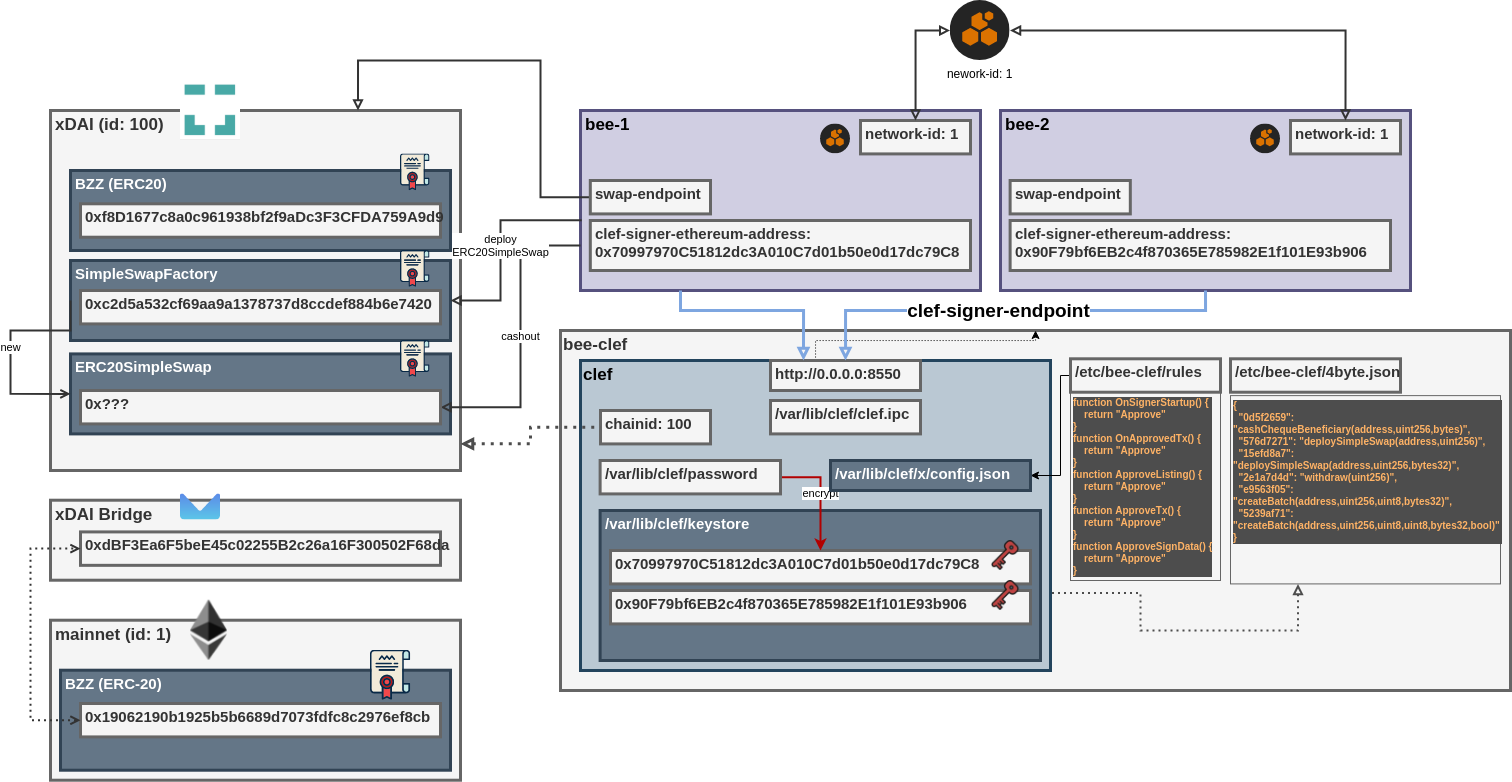
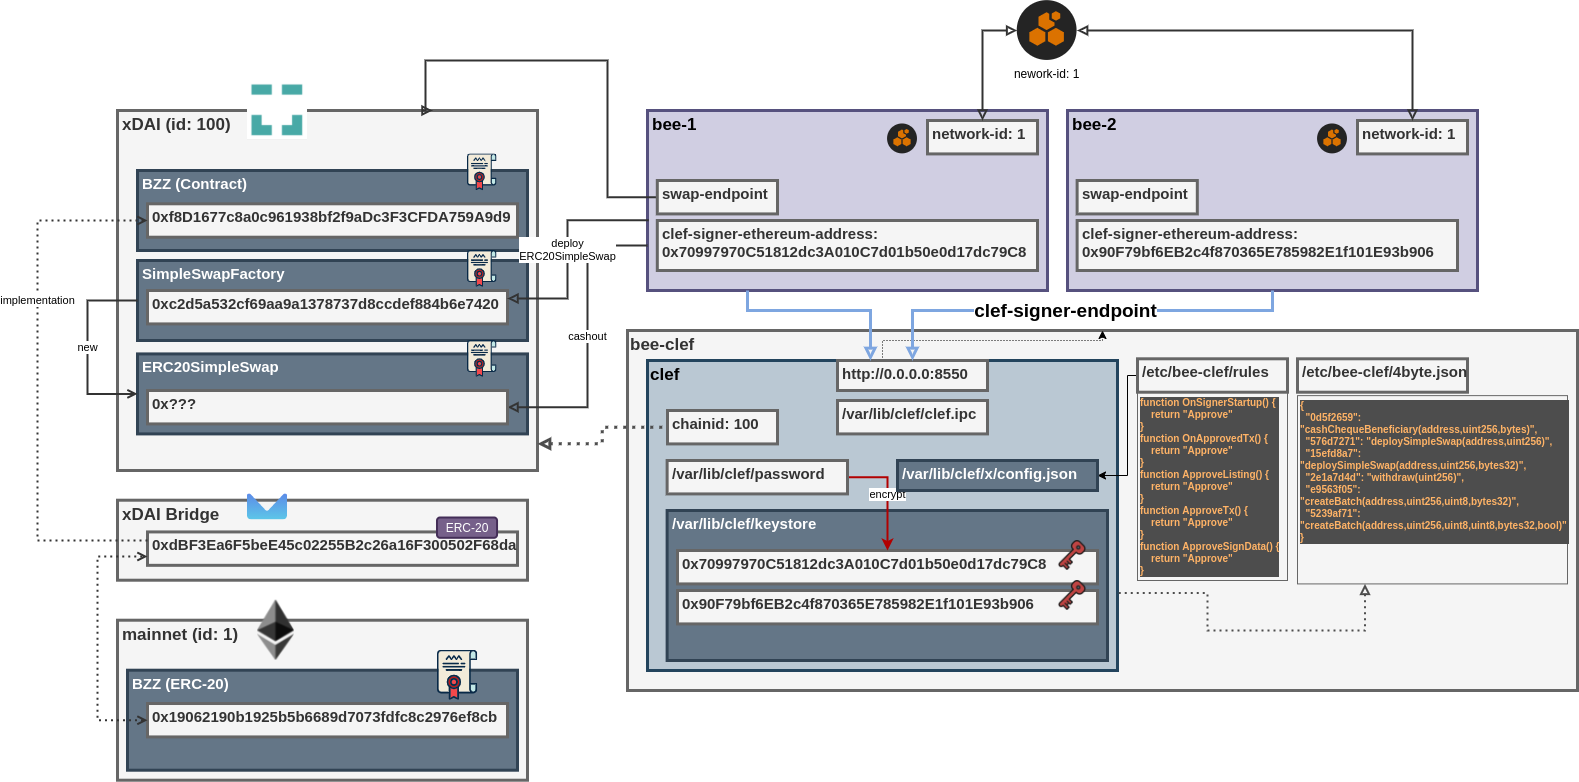
Tiny changes

diff --git a/README.md b/README.md
@@ -3,6 +3,8 @@
 
 <img src="doc/Bee-Architecture-clef.png" width="850">
 
+xDAI BZZ (Bridged): [0xdBF3Ea6F5beE45c02255B2c26a16F300502F68da](https://blockscout.com/xdai/mainnet/address/0xdBF3Ea6F5beE45c02255B2c26a16F300502F68da)
+
 ---
 
 ### Misc Snippets for Swarm Bee
